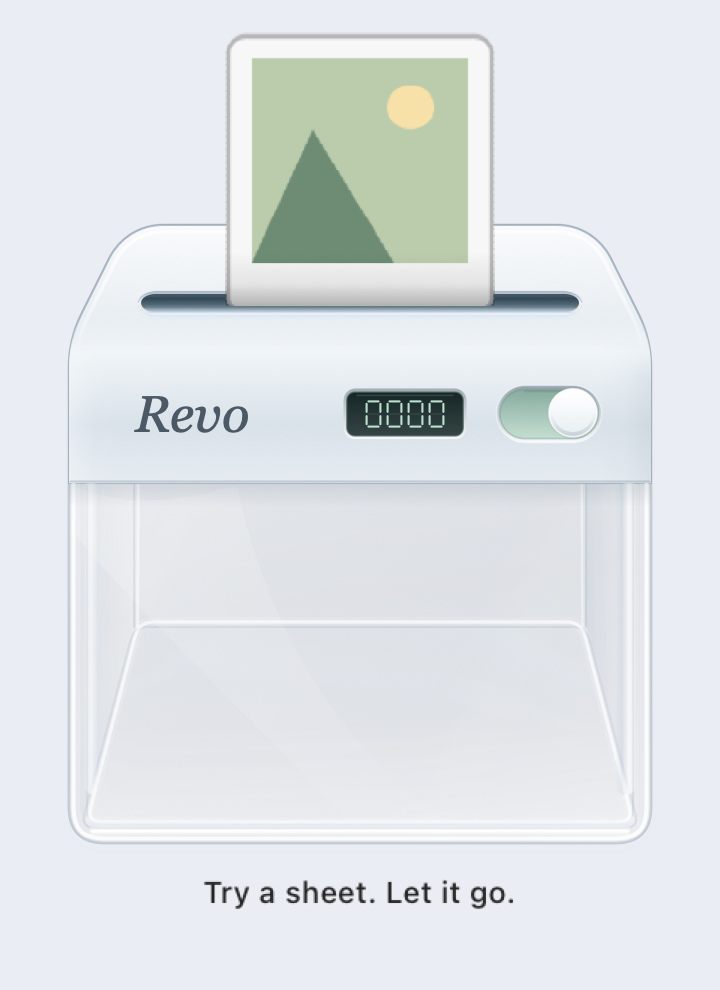
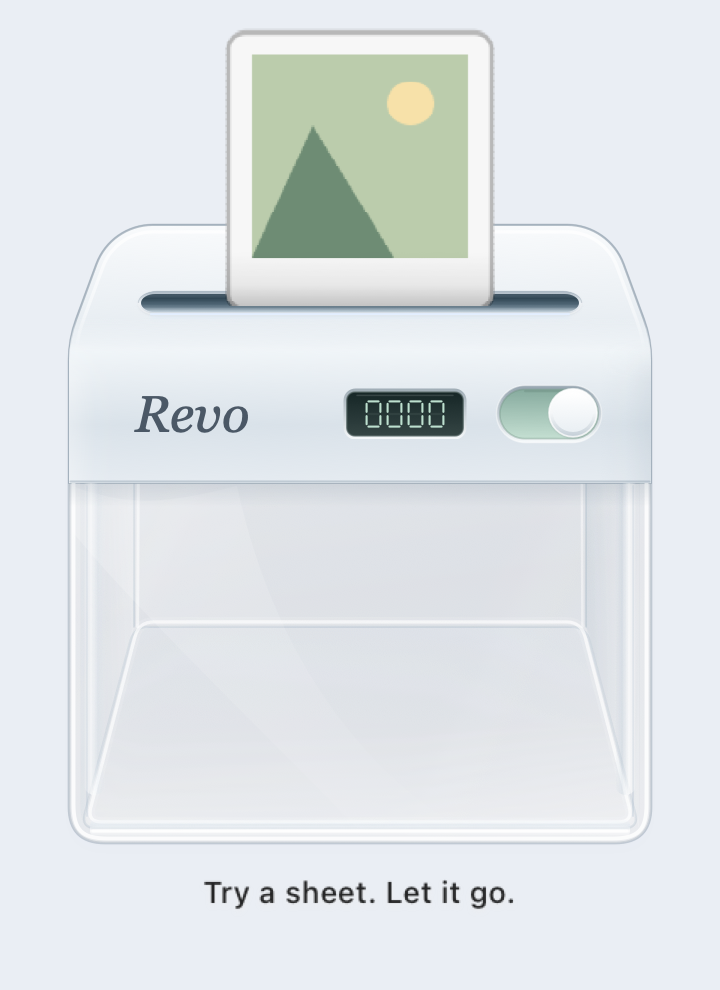
Narrow the lid shoulder while preserving smooth corner tangency

diff --git a/Sources/Revo/MachineArtwork.swift b/Sources/Revo/MachineArtwork.swift
@@ -59,9 +59,12 @@ enum MachineArtwork {
     private static func shoulder(inset: CGFloat = 0) -> CGMutablePath {
         let path = CGMutablePath()
         let left = 23 + inset, right = 217 - inset
-        let frontY = 217 + (2 - sqrt(5)) * inset
+        let setback: CGFloat = 14
+        let slope: CGFloat = 38 / setback
+        let normal = (1 + slope * slope).squareRoot()
+        let frontY = 217 + (slope - normal) * inset
         let backY = 255 - inset
-        let backLeft = 42 + (sqrt(5) - 1) * inset / 2
+        let backLeft = 23 + setback + (normal - 1) / slope * inset
         let backRight = 240 - backLeft
         path.move(to: CGPoint(x: left, y: 200))
         path.addArc(tangent1End: CGPoint(x: left, y: frontY),
